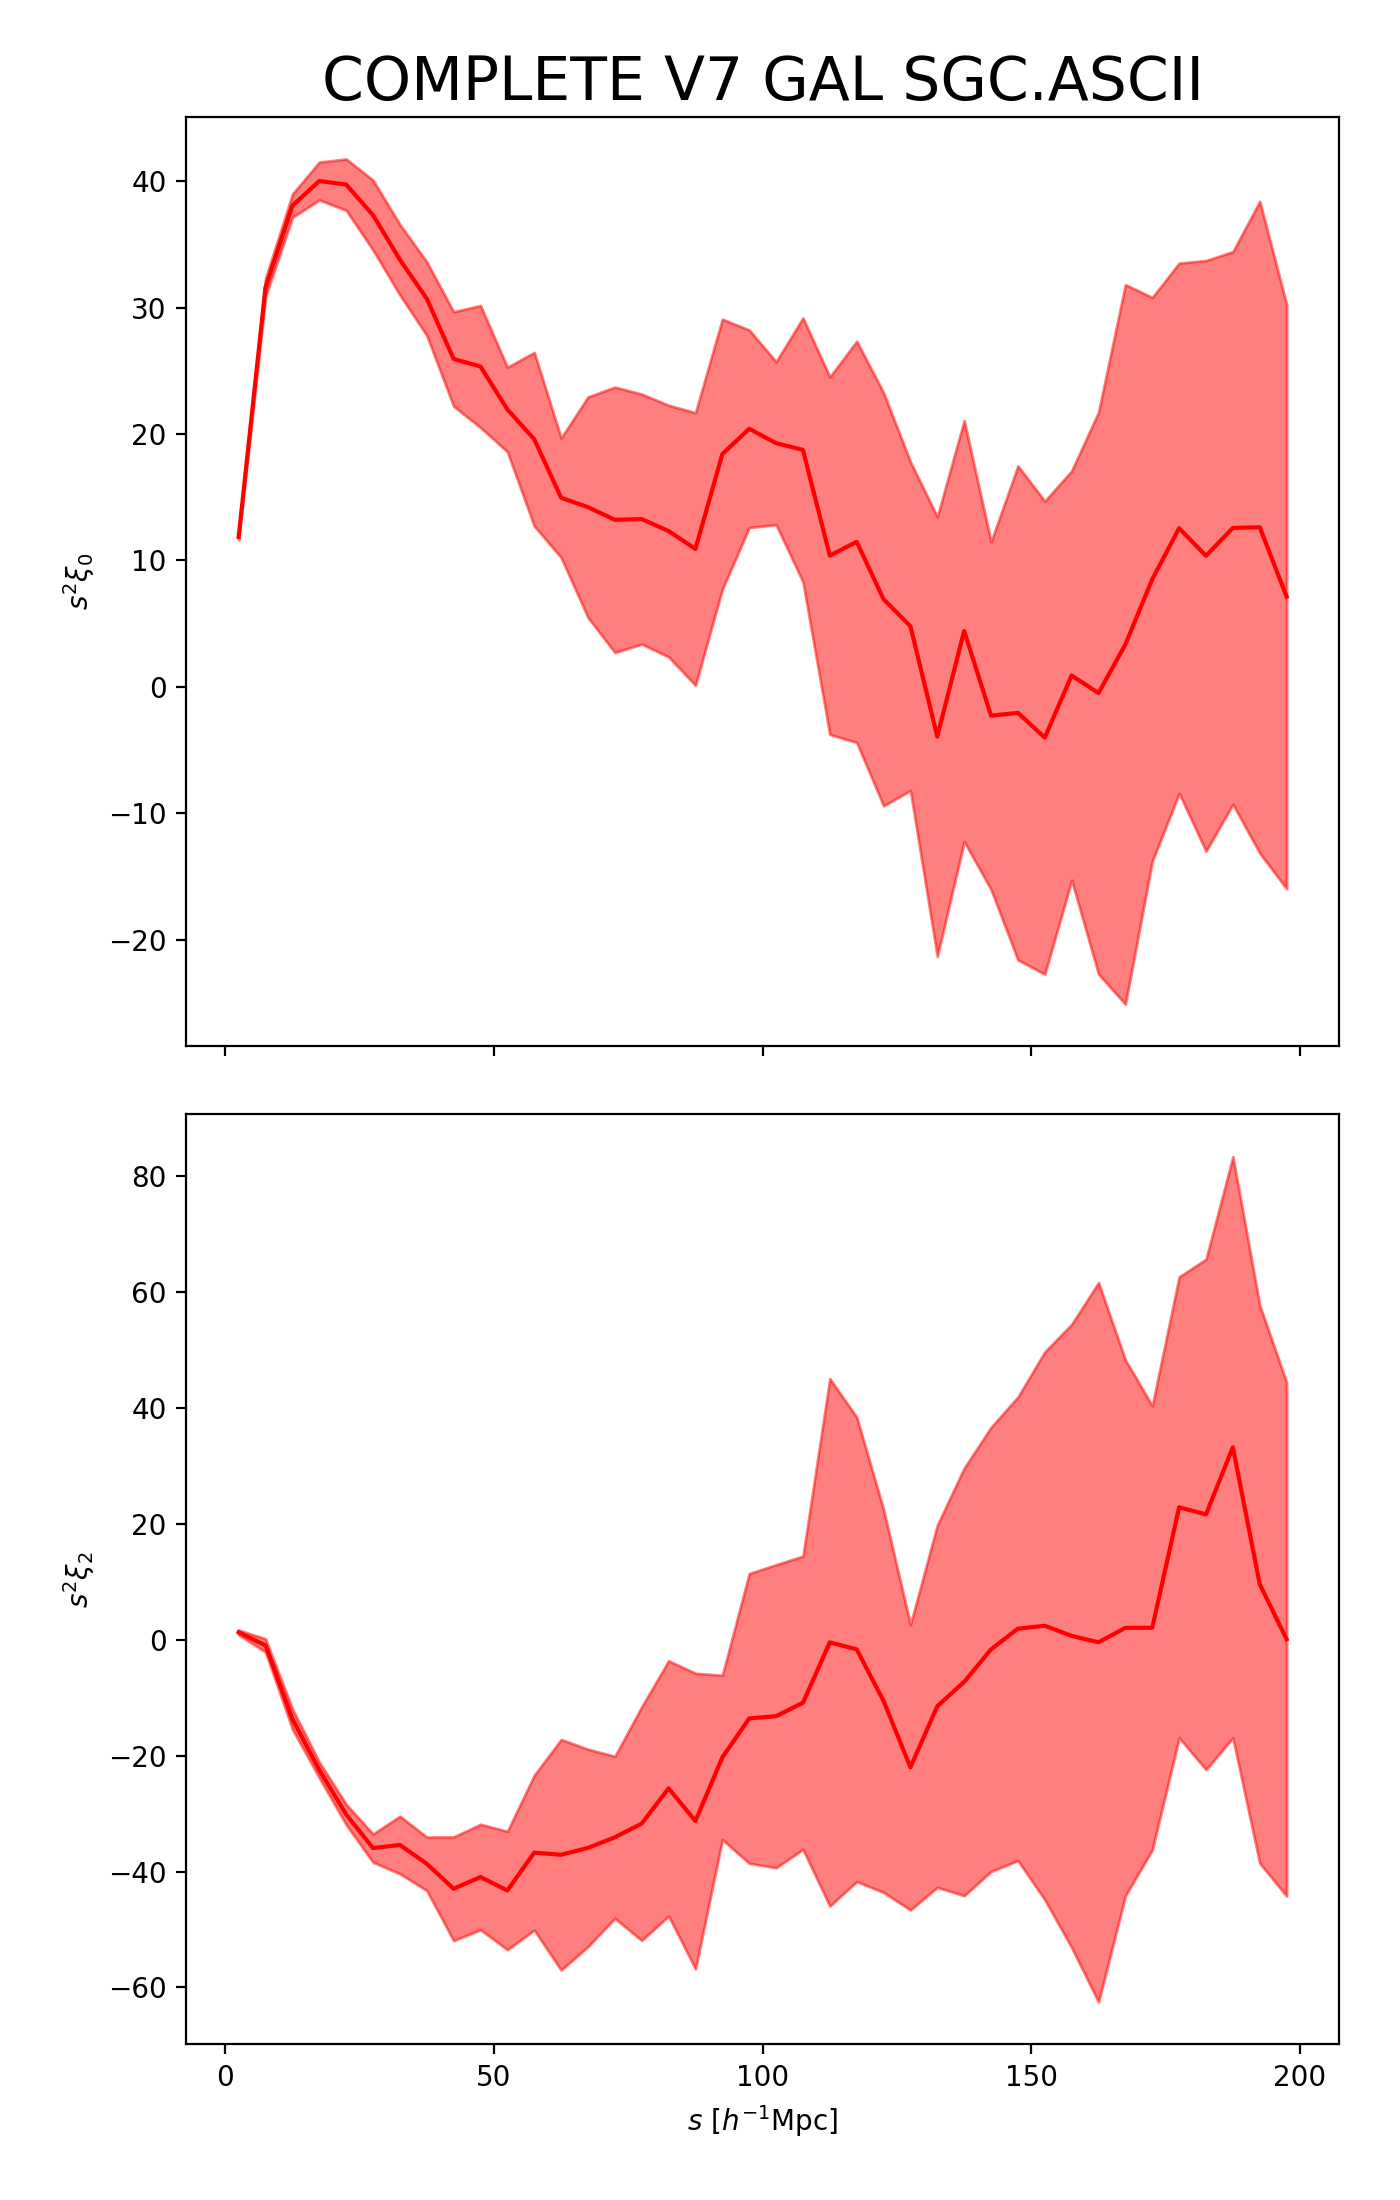
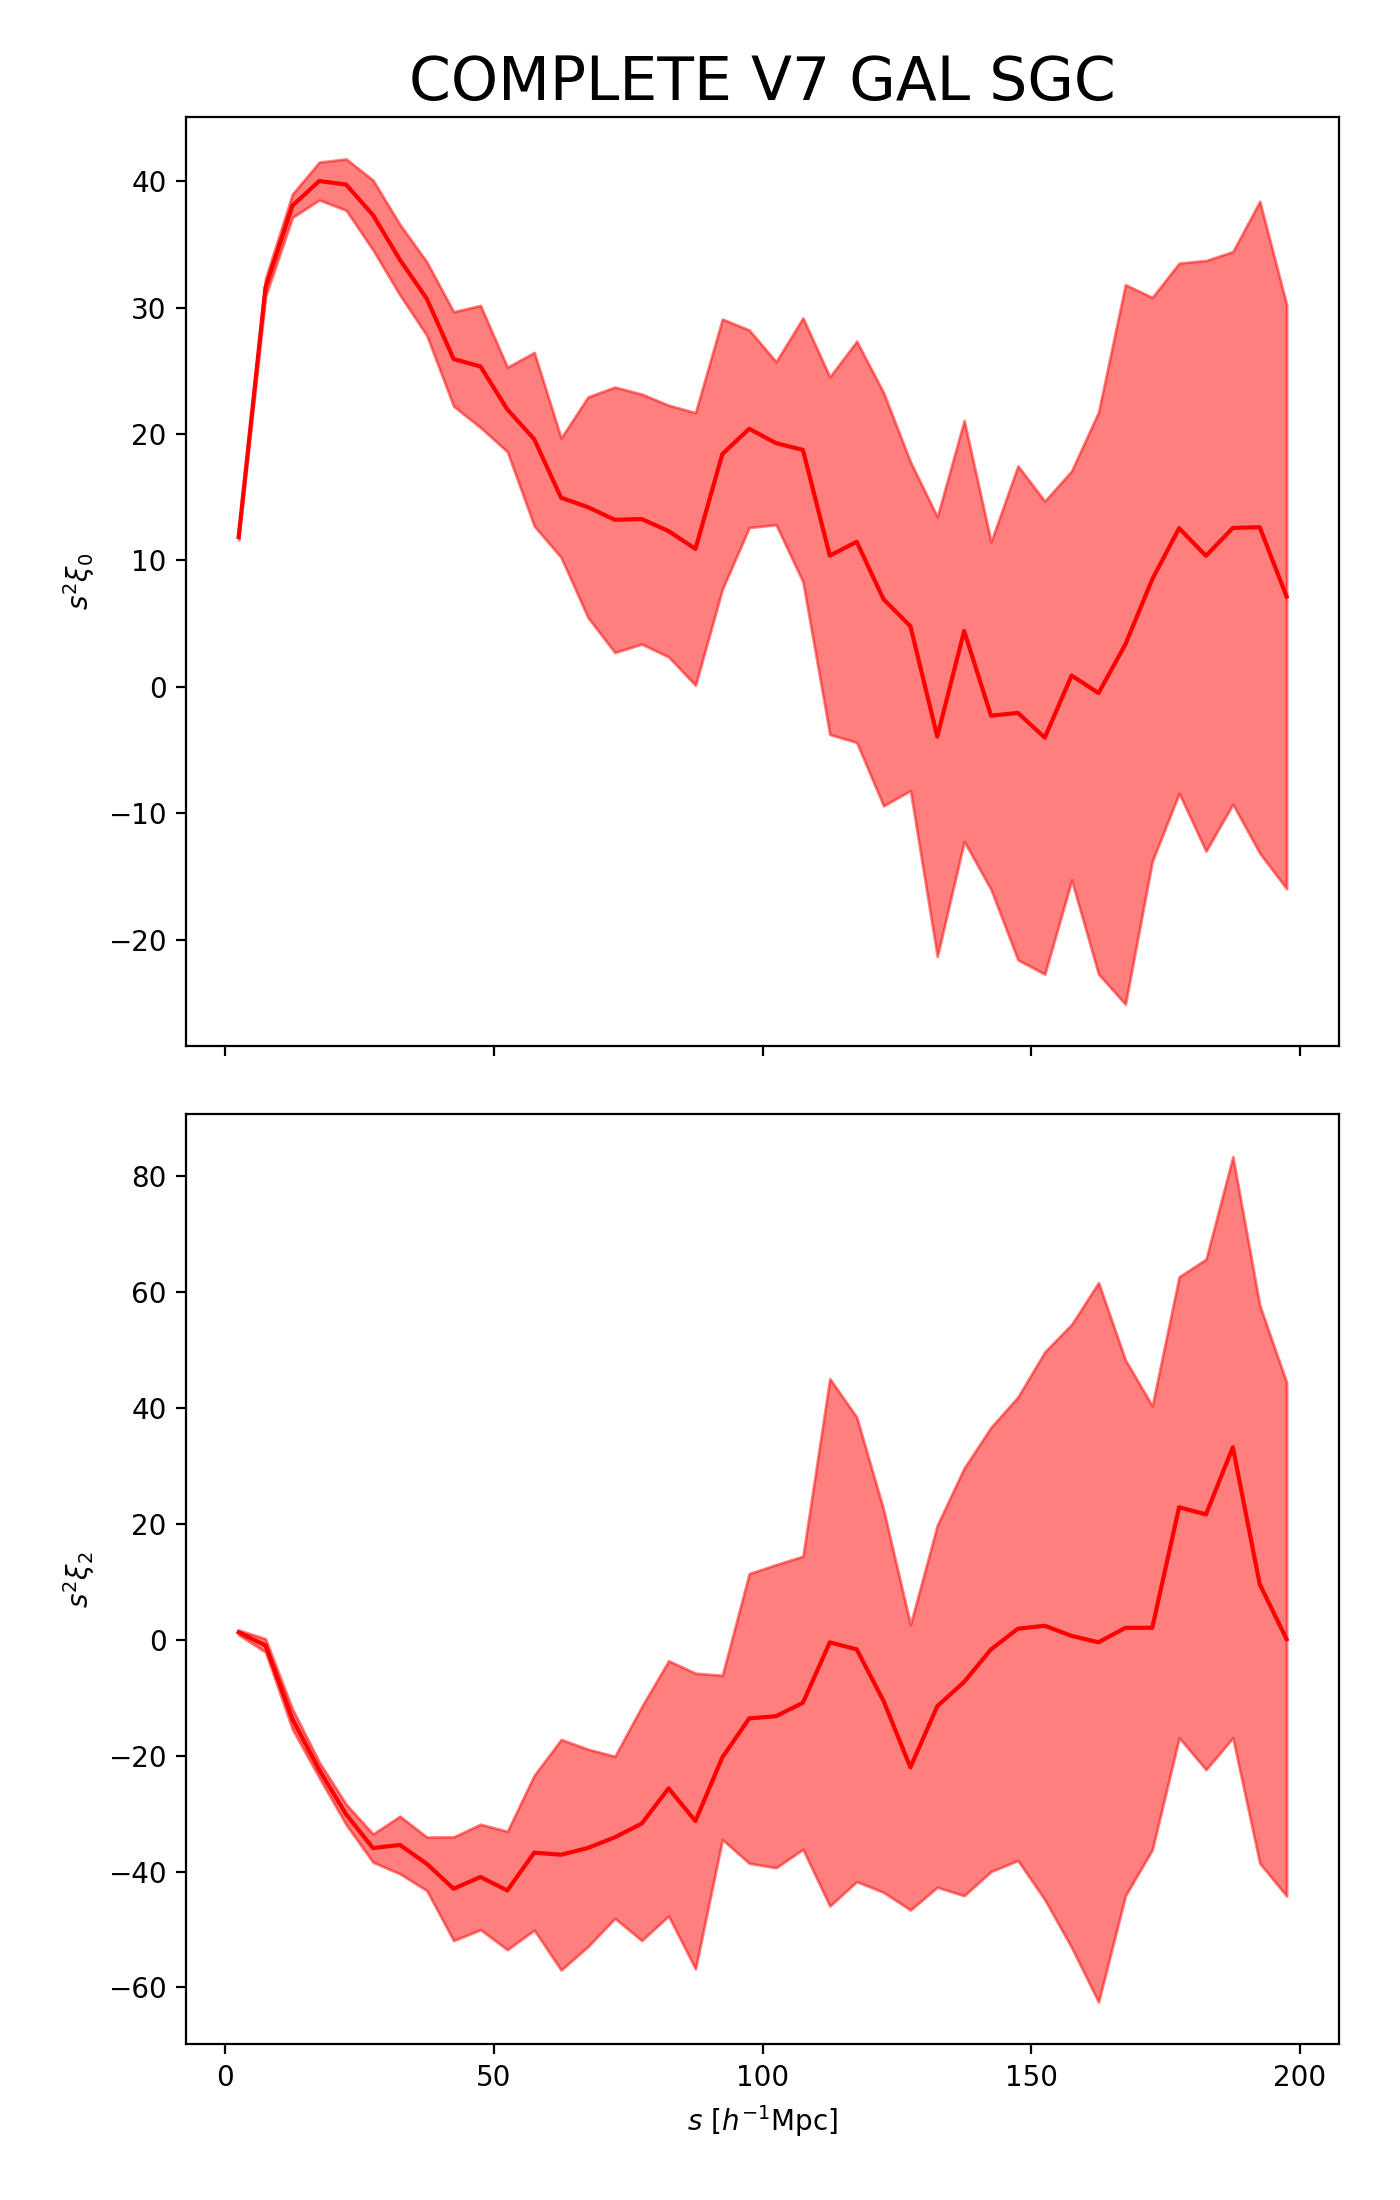
Fixed plot name

Changed region(s): [[0.2457, 0.0, 0.86, 0.0618]]

diff --git a/src/misc/plot2pcf.py b/src/misc/plot2pcf.py
@@ -23,7 +23,7 @@ else:
 if not os.path.isdir(out):
 	os.mkdir(out)
 p, name = os.path.split(mock_in)
-title = name.replace('TwoPCF_mockavg_', '').replace('_', ' ').upper()
+title = name.replace('TwoPCF_mockavg_', '').replace('_', ' ').replace('.ascii','').upper()
 mocks = np.loadtxt(mock_in)
 if len(sys.argv)==4:
 	obs = np.loadtxt(obs_in)
